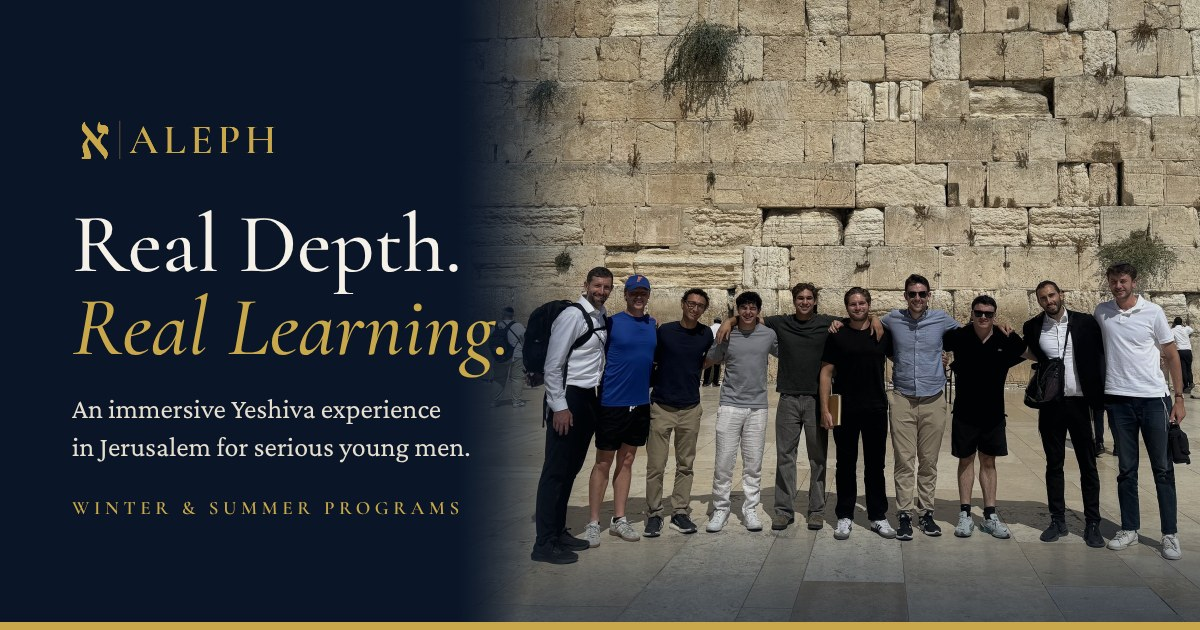
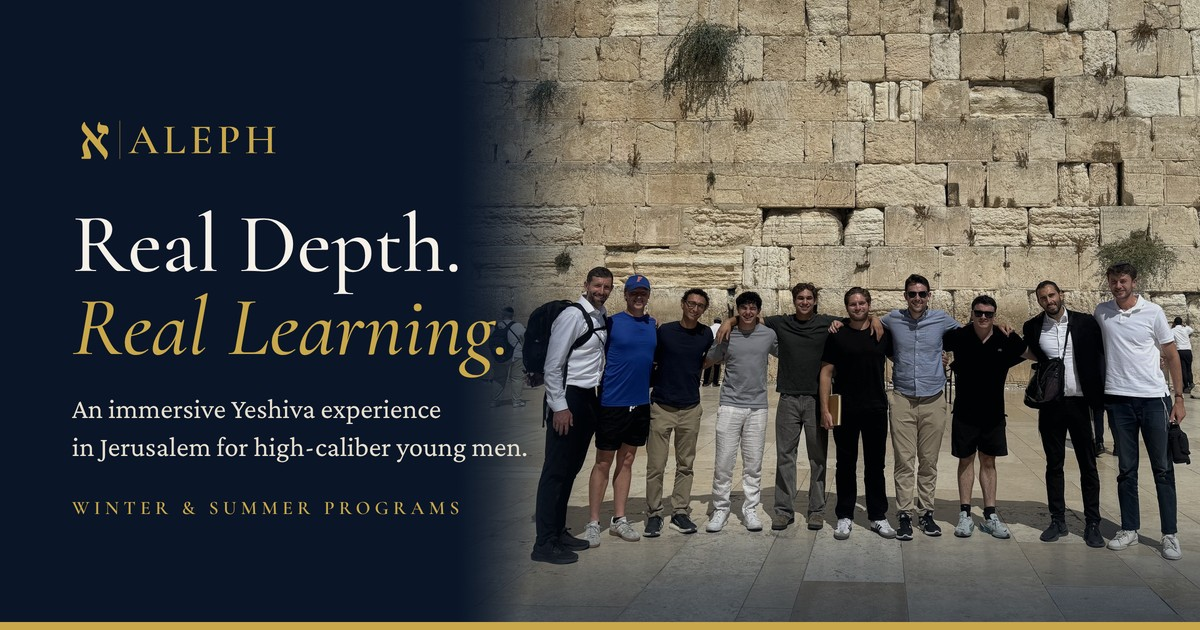
Social preview: high-caliber young men
Claude-Session: https://claude.ai/code/session_01SnyoFVysT9VvTZxcgNSCAT

Changed region(s): [[0.1542, 0.6937, 0.4317, 0.7238], [0.1542, 0.6333, 0.185, 0.6635], [0.0925, 0.6937, 0.1233, 0.7238]]

diff --git a/site/index.html b/site/index.html
@@ -16,12 +16,12 @@
 <meta property="og:type" content="website">
 <meta property="og:title" content="Aleph | Yeshiva Program in Jerusalem">
 <meta property="og:description" content="Real Depth. Real Learning. An immersive Yeshiva experience in Jerusalem for high-caliber young men.">
-<meta property="og:image" content="https://alephexperience.com/og-image.jpg">
+<meta property="og:image" content="https://alephexperience.com/og-image.jpg?v=2">
 <meta property="og:image:width" content="1200">
 <meta property="og:image:height" content="630">
 <meta property="og:url" content="https://alephexperience.com/">
 <meta name="twitter:card" content="summary_large_image">
-<meta name="twitter:image" content="https://alephexperience.com/og-image.jpg">
+<meta name="twitter:image" content="https://alephexperience.com/og-image.jpg?v=2">
 <link rel="preconnect" href="https://fonts.googleapis.com">
 <link rel="preconnect" href="https://fonts.gstatic.com" crossorigin>
 <link rel="stylesheet" href="https://fonts.googleapis.com/css2?family=Cormorant+Garamond:ital,wght@0,500;0,600;0,700;1,500;1,600&family=Crimson+Pro:ital,wght@0,400;0,500;0,600;1,400&display=swap">
